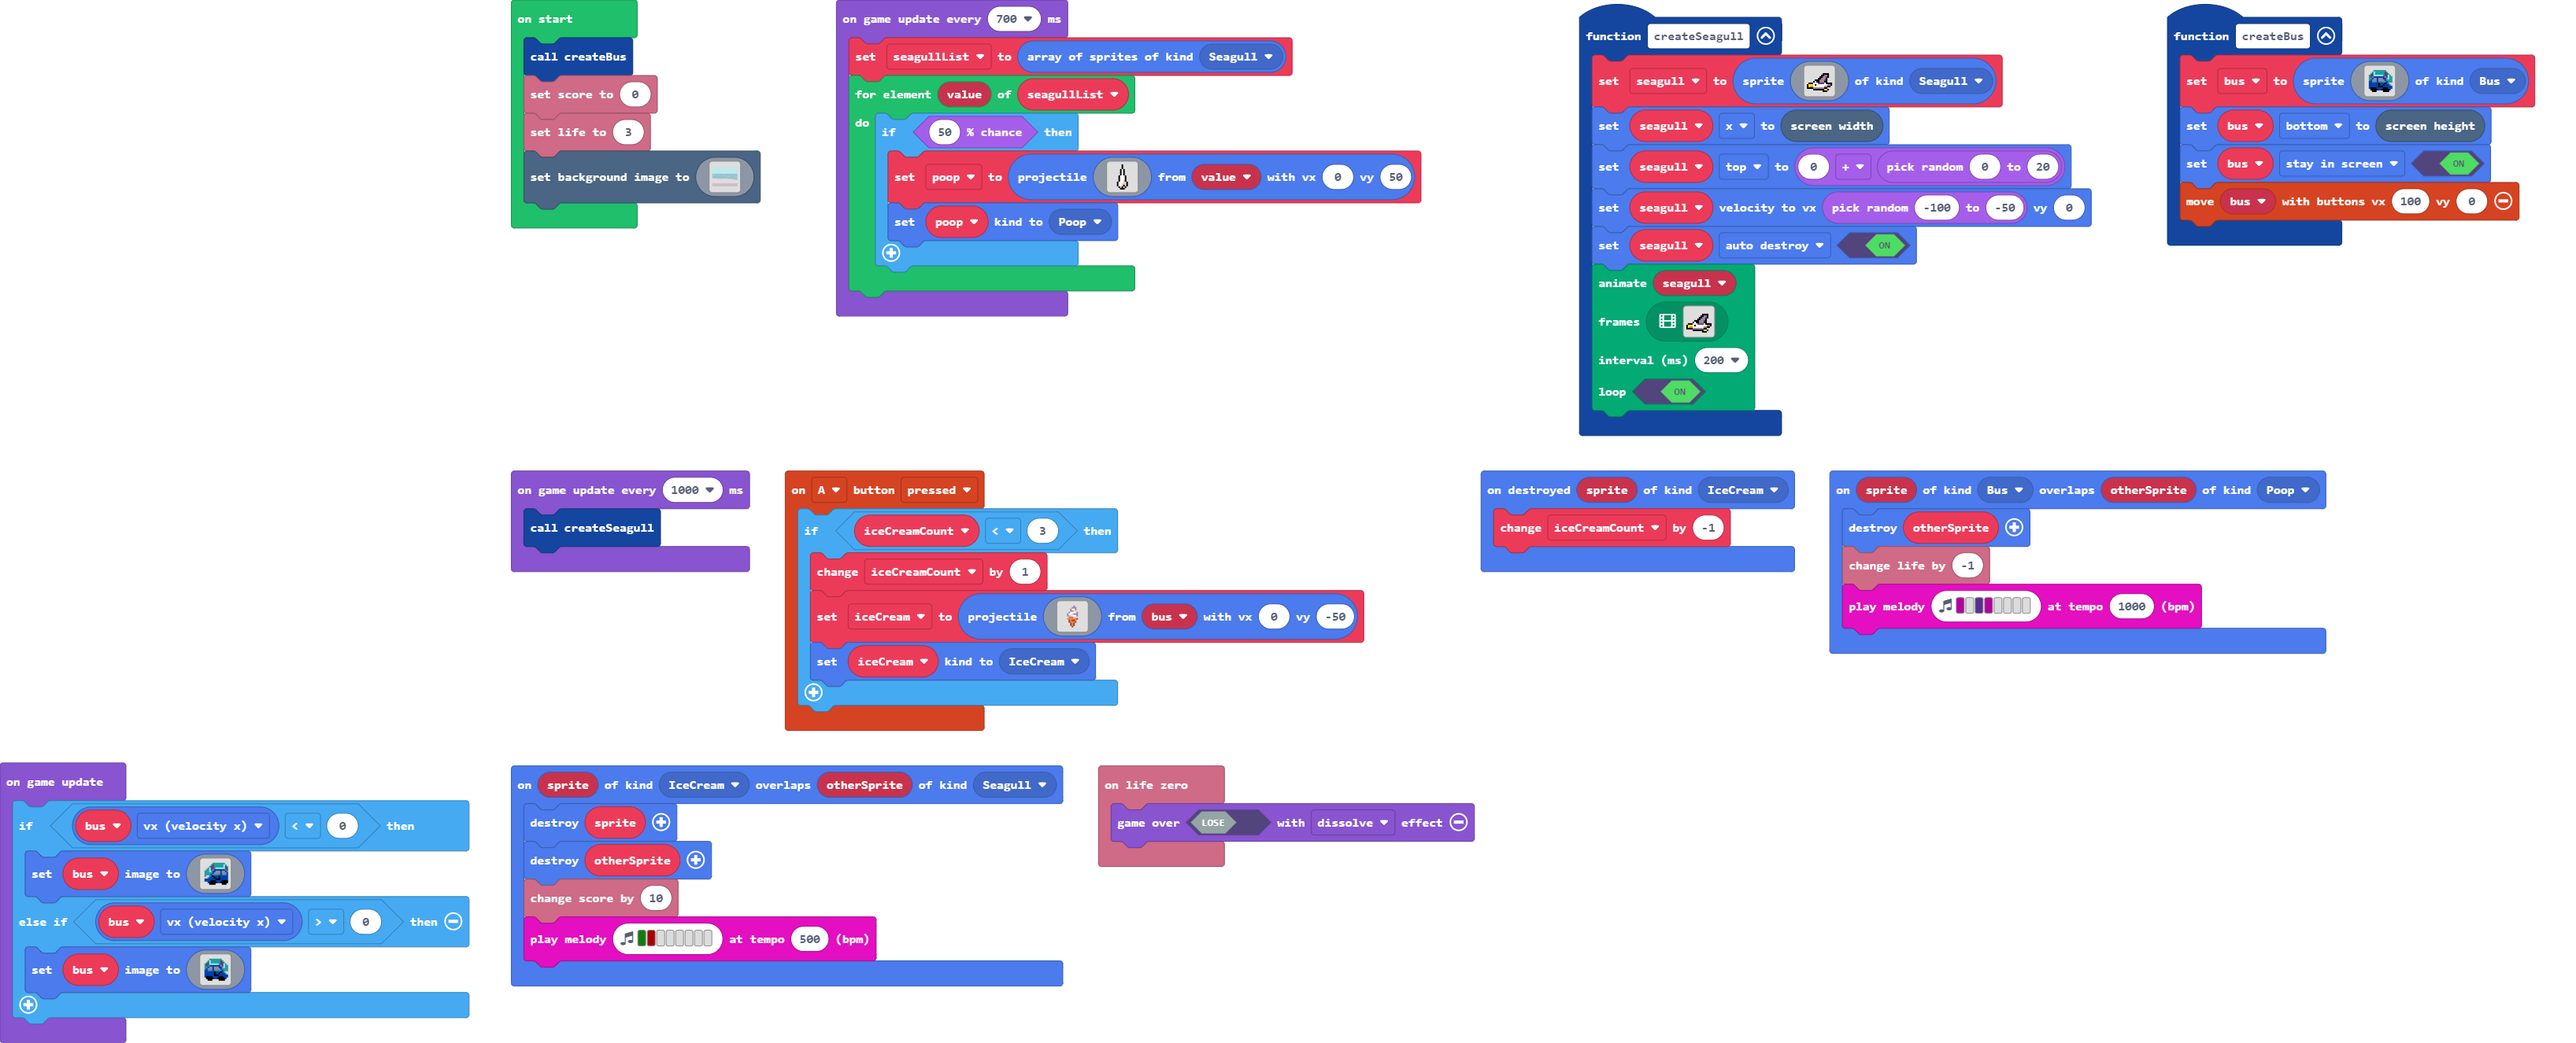
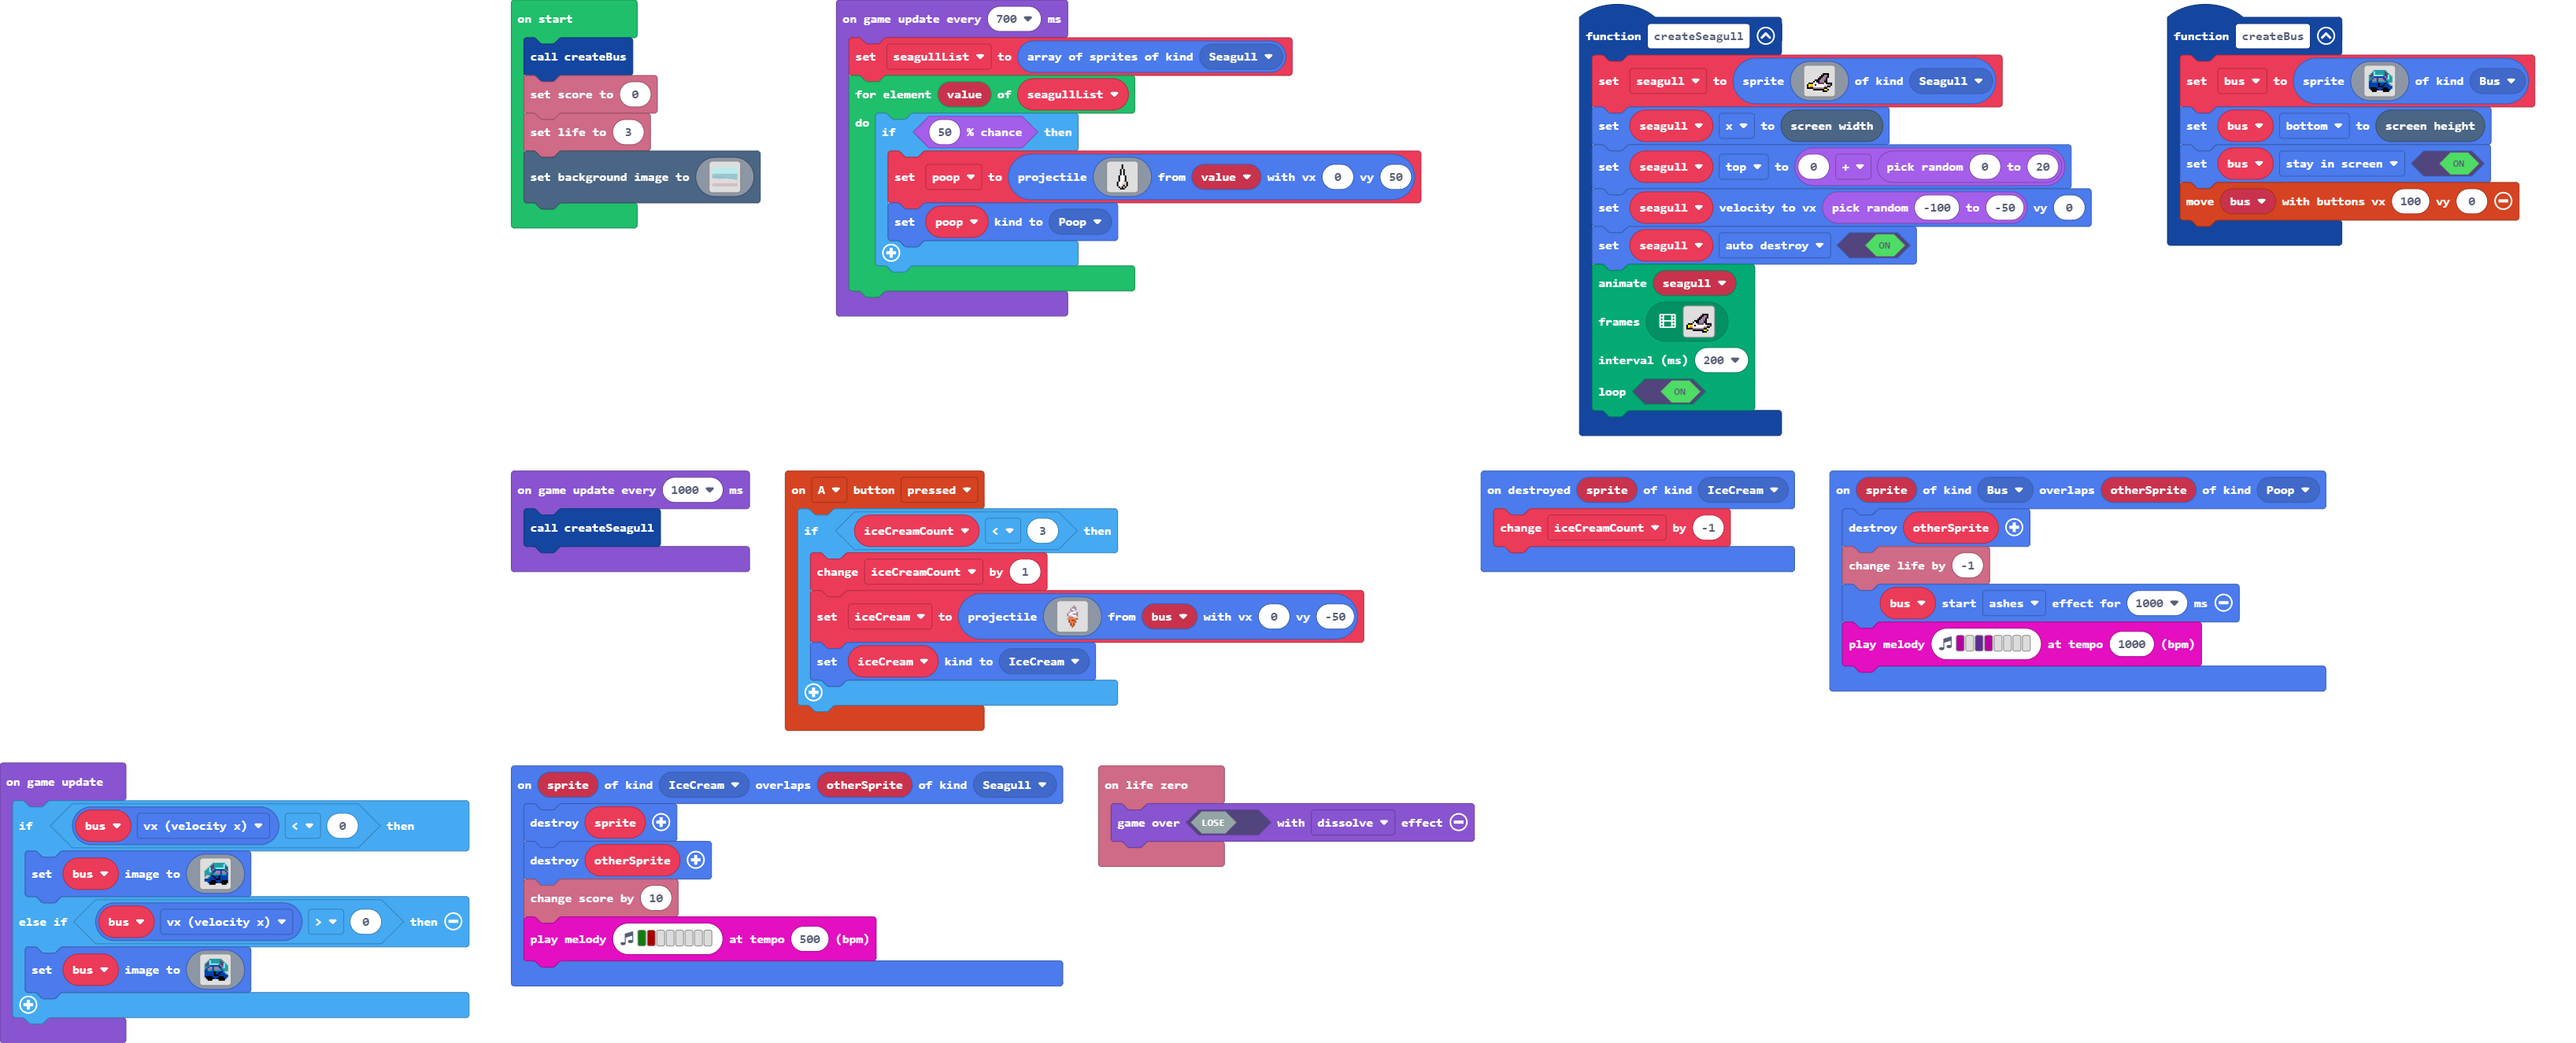
Add effect when hit by poop.

Changed region(s): [[0.6858, 0.5566, 0.904, 0.6802]]

diff --git a/main.ts b/main.ts
@@ -130,6 +130,7 @@ info.onLifeZero(function () {
 sprites.onOverlap(SpriteKind.Bus, SpriteKind.Poop, function (sprite, otherSprite) {
     otherSprite.destroy()
     info.changeLifeBy(-1)
+    bus.startEffect(effects.ashes, 1000)
     music.playMelody("C - D C - - - - ", 1000)
 })
 let poop: Sprite = null
